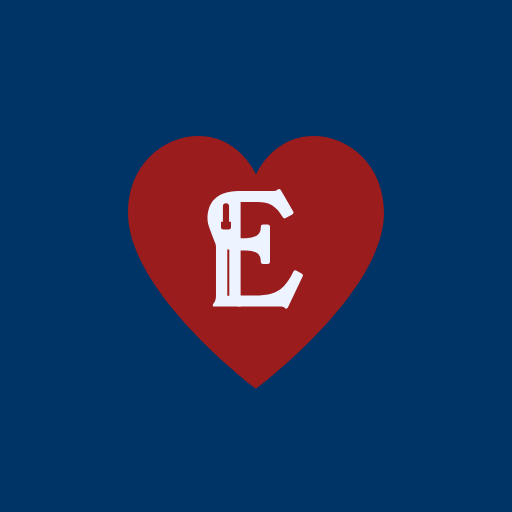
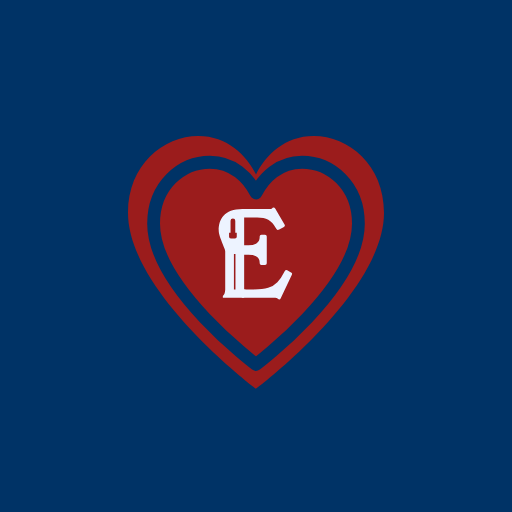
Poker Hub v1.3.8: a red heart that keeps its blue in iOS Dark
The carmine heart now has a Prussian line inside it. Phone test,
19/11/2026, Home Screen set to Dark: the 1.3.6 card and this heart kept
the blue; the plain heart, a heart enlarged to the card's size, and the
enlarged heart with the line all went black. apple-touch-icon.png is
byte-for-byte the image that passed and the tests pin it.

The temporary icon-test/ pages are removed.

Claude-Session: https://claude.ai/code/session_01KXqnyGJbYEB73Y75yW7M9b

Changed region(s): [[0.2812, 0.2812, 0.7188, 0.7188]]

diff --git a/index.html b/index.html
@@ -9,16 +9,16 @@
 <meta name="mobile-web-app-capable" content="yes">
 <meta name="apple-mobile-web-app-status-bar-style" content="black">
 <meta name="eds-version" content="2.0.0">
-<meta name="app-version" content="1.3.7">
+<meta name="app-version" content="1.3.8">
 <meta name="theme-color" content="#050a0e" media="(prefers-color-scheme: dark)">
 <meta name="theme-color" content="#edf3ff" media="(prefers-color-scheme: light)">
 <meta name="description" content="One store for the home game: buy-ins, hands, reads, settlement, ledger.">
 <!--
-  Poker Hub 1.3.7 · EDB design system 2.0.0
+  Poker Hub 1.3.8 · EDB design system 2.0.0
   Single file, zero network requests, works from file:// and from GitHub Pages
-  Built 2026-11-18 · © Ernest Tung
+  Built 2026-11-19 · © Ernest Tung
 -->
[2 lines of base64/hex data omitted]
 <link rel="apple-touch-icon" href="./apple-touch-icon.png">
 <link rel="manifest" href="./manifest.webmanifest">
 <script>
@@ -11268,7 +11268,7 @@ window.MARK_PATHS = {
 (function () {
   'use strict';
 
-  var APP_VERSION = '1.3.7';
+  var APP_VERSION = '1.3.8';
   var EDS_VERSION = '2.0.0';
 
   var Settle = window.PHSettle, Layers = window.PHLayers, Ident = window.PHIdentity;

diff --git a/README.md b/README.md
@@ -1,4 +1,32 @@
-# Poker Hub — v1.3.7 · the heart is back
+# Poker Hub — v1.3.8 · a heart that stays blue
+
+### What changed in v1.3.8 (19/11/2026)
+
+- **New home-screen icon: the carmine heart with a Prussian line inside
+  it**, pale scalpel-E in the middle, on the full-bleed Prussian tile. It
+  keeps its blue in iOS's Dark icon style; the plain heart (1.3.5, 1.3.7)
+  did not.
+- **Chosen by a phone test, 19/11/2026.** Five icons on the Home Screen,
+  set to Dark:
+
+  | Icon | Dark |
+  |---|---|
+  | card with a blue E (1.3.6) | blue |
+  | plain heart (1.3.7) | black |
+  | heart + blue line inside (this one) | blue |
+  | heart enlarged to the card's size | black |
+  | enlarged heart + blue line | black |
+
+  With no dark icon supplied, iOS tries to lift the shape off its
+  background and set it on black; when it can't separate them cleanly it
+  only dims the icon. Blue enclosed inside the shape stops the lift-off at
+  this size — and a bigger heart loses it again, so the rule is not simply
+  "add blue inside". Apple doesn't document it.
+- **The icon is pinned.** `apple-touch-icon.png` is byte-for-byte the image
+  that passed; the browser tests check that, and that blue sits walled off
+  inside the heart. Any change to `src/icon.svg` needs a new phone test.
+- The temporary `icon-test/` pages are removed.
+- Remove the icon and add it again to pick it up — back up first.
 
 ### What changed in v1.3.7 (18/11/2026)
 
@@ -406,7 +434,7 @@ downloads them as before.
 **Icon B1.** The carmine heart Ernest chose in August, with the scalpel-E
 now in ink `#edf3ff` instead of knocked out in Prussian — the one change
 that rescues it at 16 px (merge spec §15). Regenerated at every size.
-(Replaced by the playing card in 1.3.6; back, on the new wiring, in 1.3.7.)
+(Replaced by the playing card in 1.3.6; back in 1.3.7; given its inner line in 1.3.8.)
 
 **Two latent test bugs fixed.** `test_import.mjs` §9 and `test_browser.mjs`
 only passed in US Eastern time: the tracker fixture's first buy-in was
@@ -1206,9 +1234,10 @@ index.html              the app — build output, do not edit
 sw.js                   offline start, beside it
 manifest.webmanifest    beside it, relative paths
 apple-touch-icon.png    the home-screen icon (180), and icon-192/-512,
-icon-*.png              icon-maskable-512 for the manifest: carmine heart,
-                        pale scalpel-E, on full-bleed Prussian — rendered
-                        by make-icons.mjs
+icon-*.png              icon-maskable-512 for the manifest: carmine heart
+                        with a Prussian line inside, pale scalpel-E, on
+                        full-bleed Prussian — rendered by make-icons.mjs;
+                        the touch icon is pinned to the phone-tested image
 src/icon.svg            the one drawing every icon comes from
 build.mjs               inlines everything, then fails on any outbound URL
 src/
